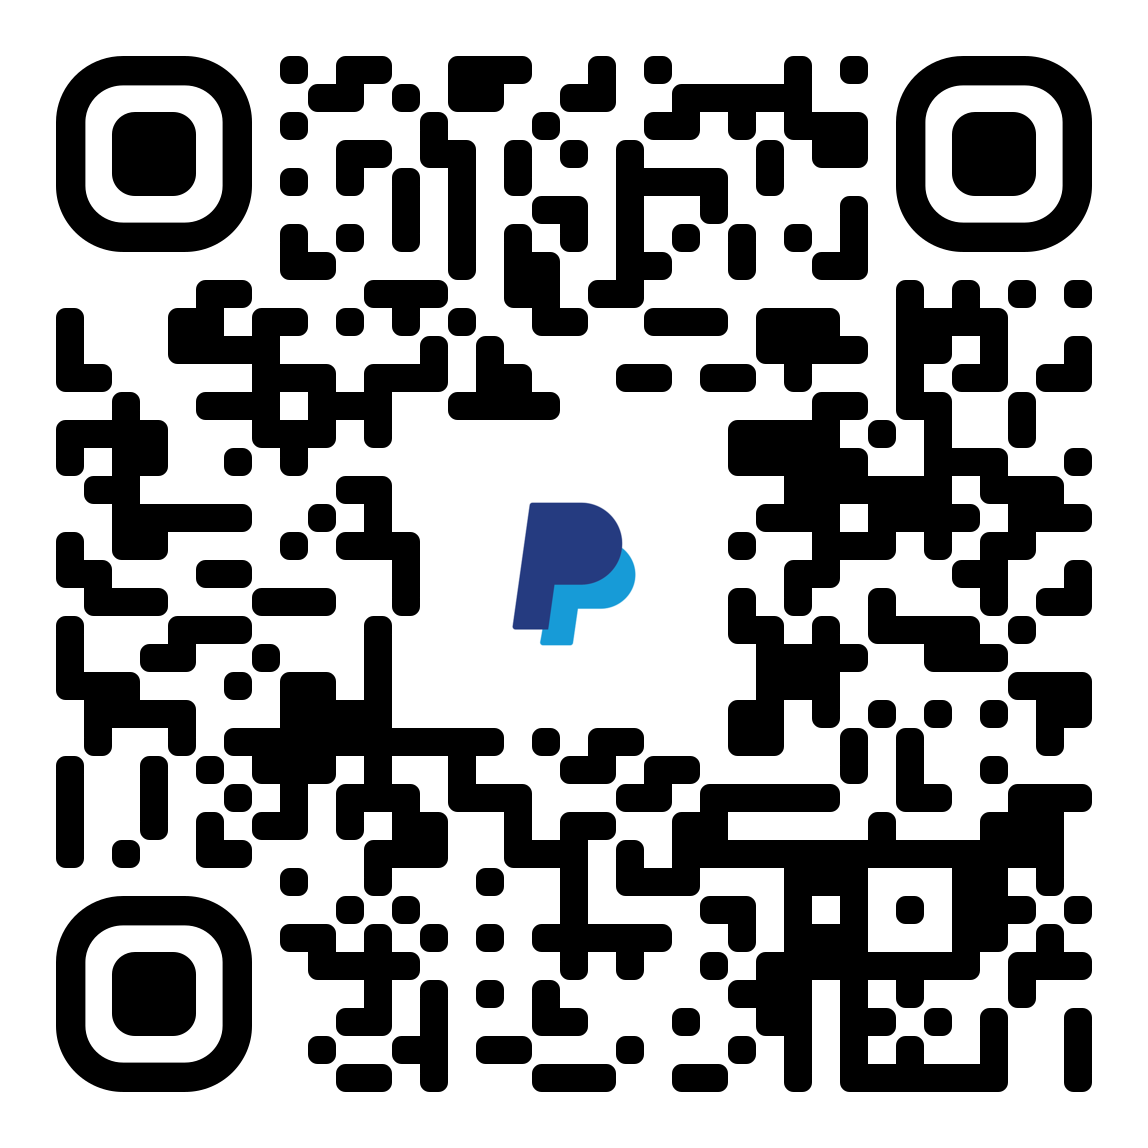
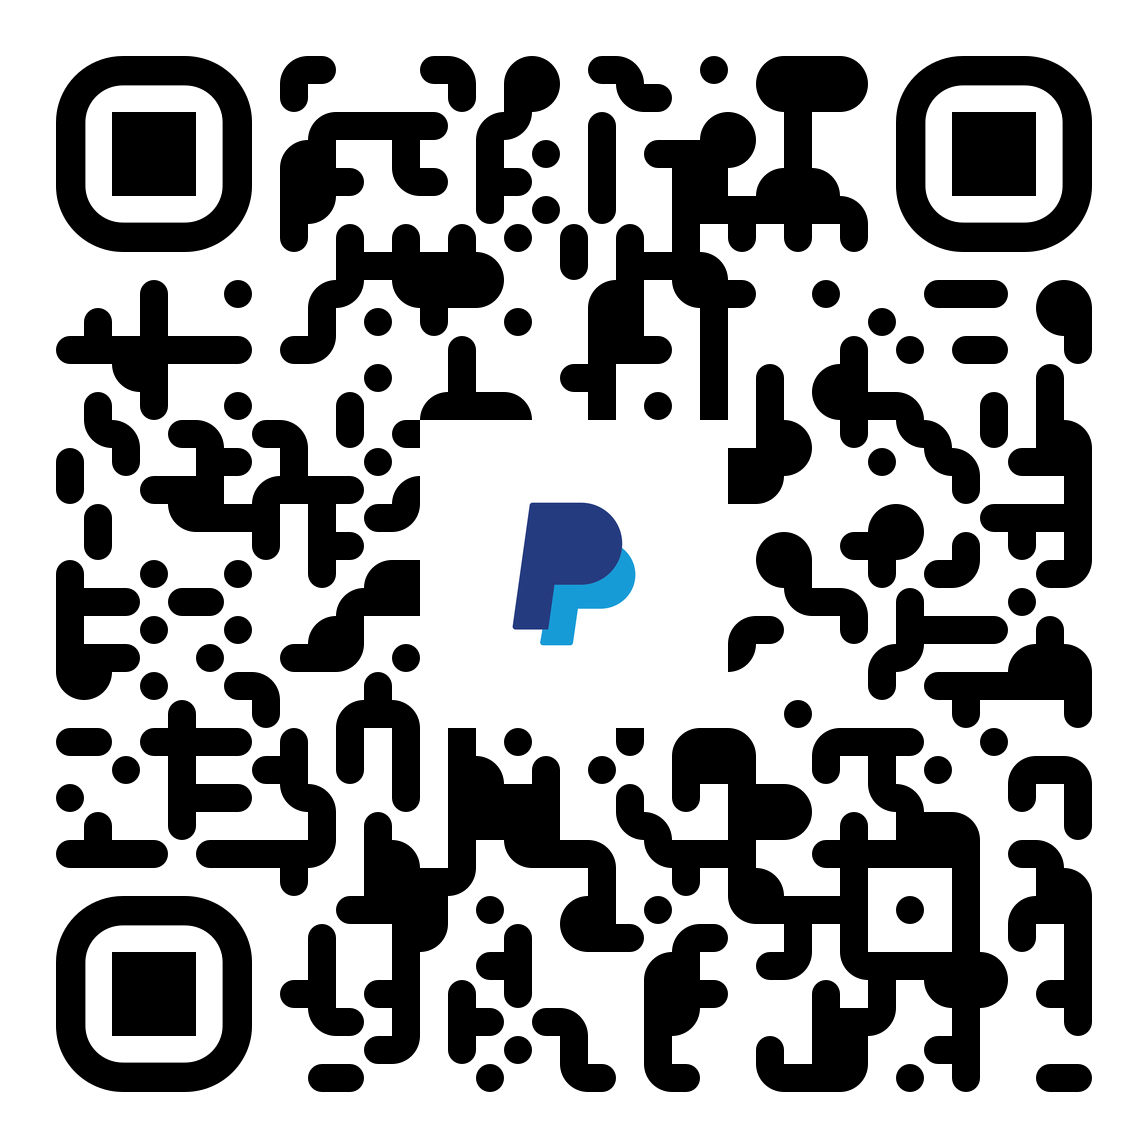
.

diff --git a/donate.html b/donate.html
@@ -98,7 +98,7 @@ body {
         <img src="graphics/paypal.png" alt="paypal" style="width:100%">
         <div class="caption center text-center">
           <!--<p><a href="https://www.paypal.com/pools/c/8IlWi9KDAh">Paypal</a></p>-->
-          <p><a href="https://www.paypal.com/pools/c/8IlWi9KDAh">www.paypal.com/pools/c/8IlWi9KDAh</a></p>
+          <p><a href="https://www.paypal.com/pools/c/8JethmLOM0">www.paypal.com/pools/c/8JethmLOM0</a></p>
         </div>
     </div>
   </div>
